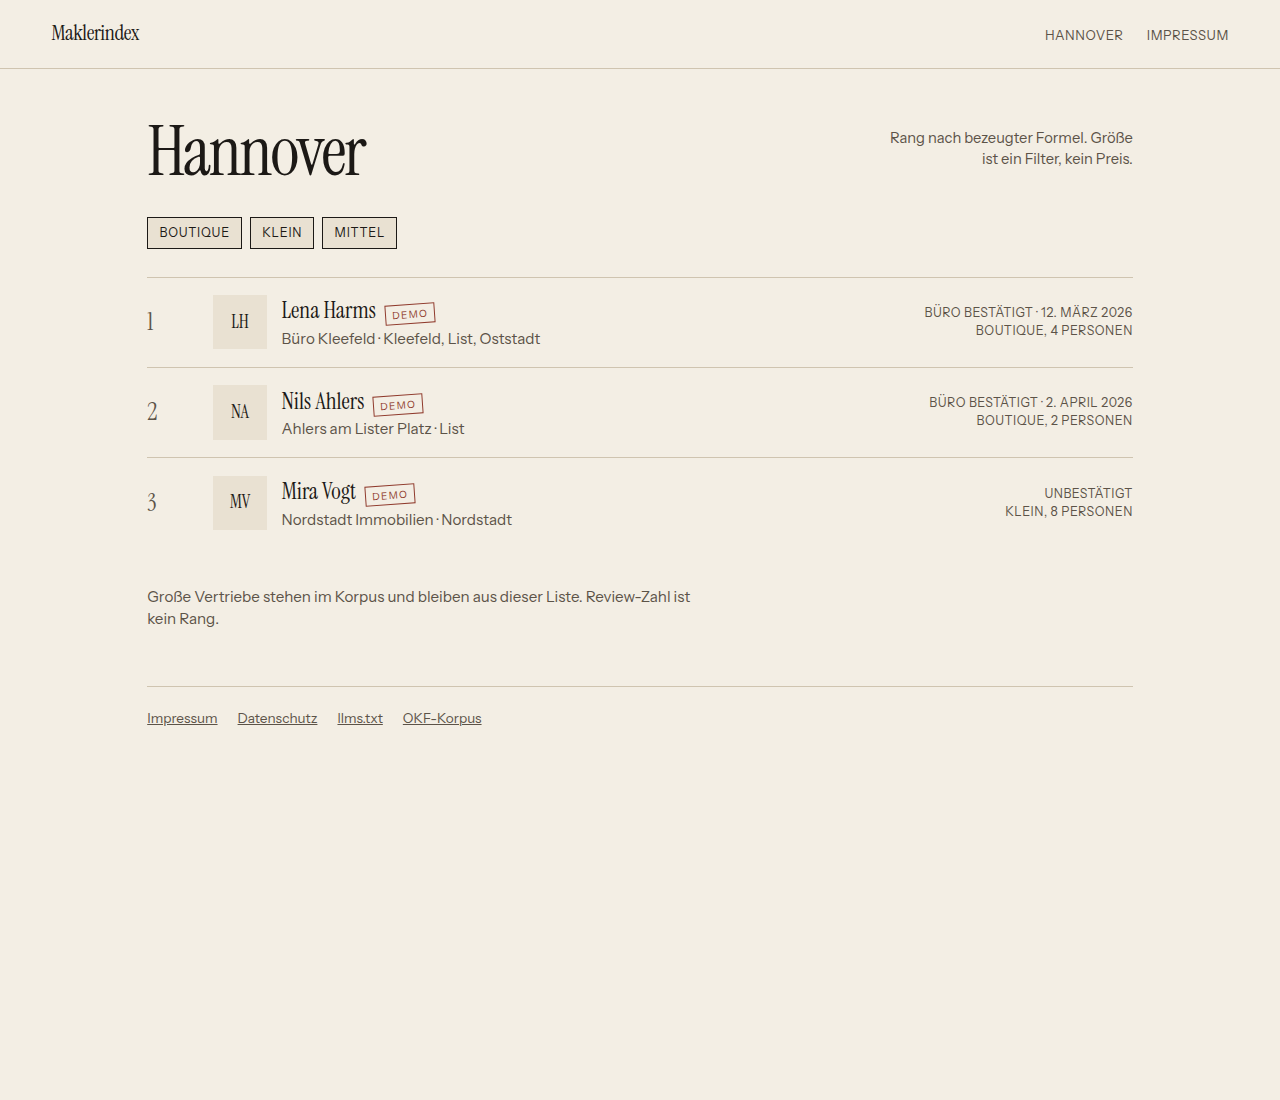
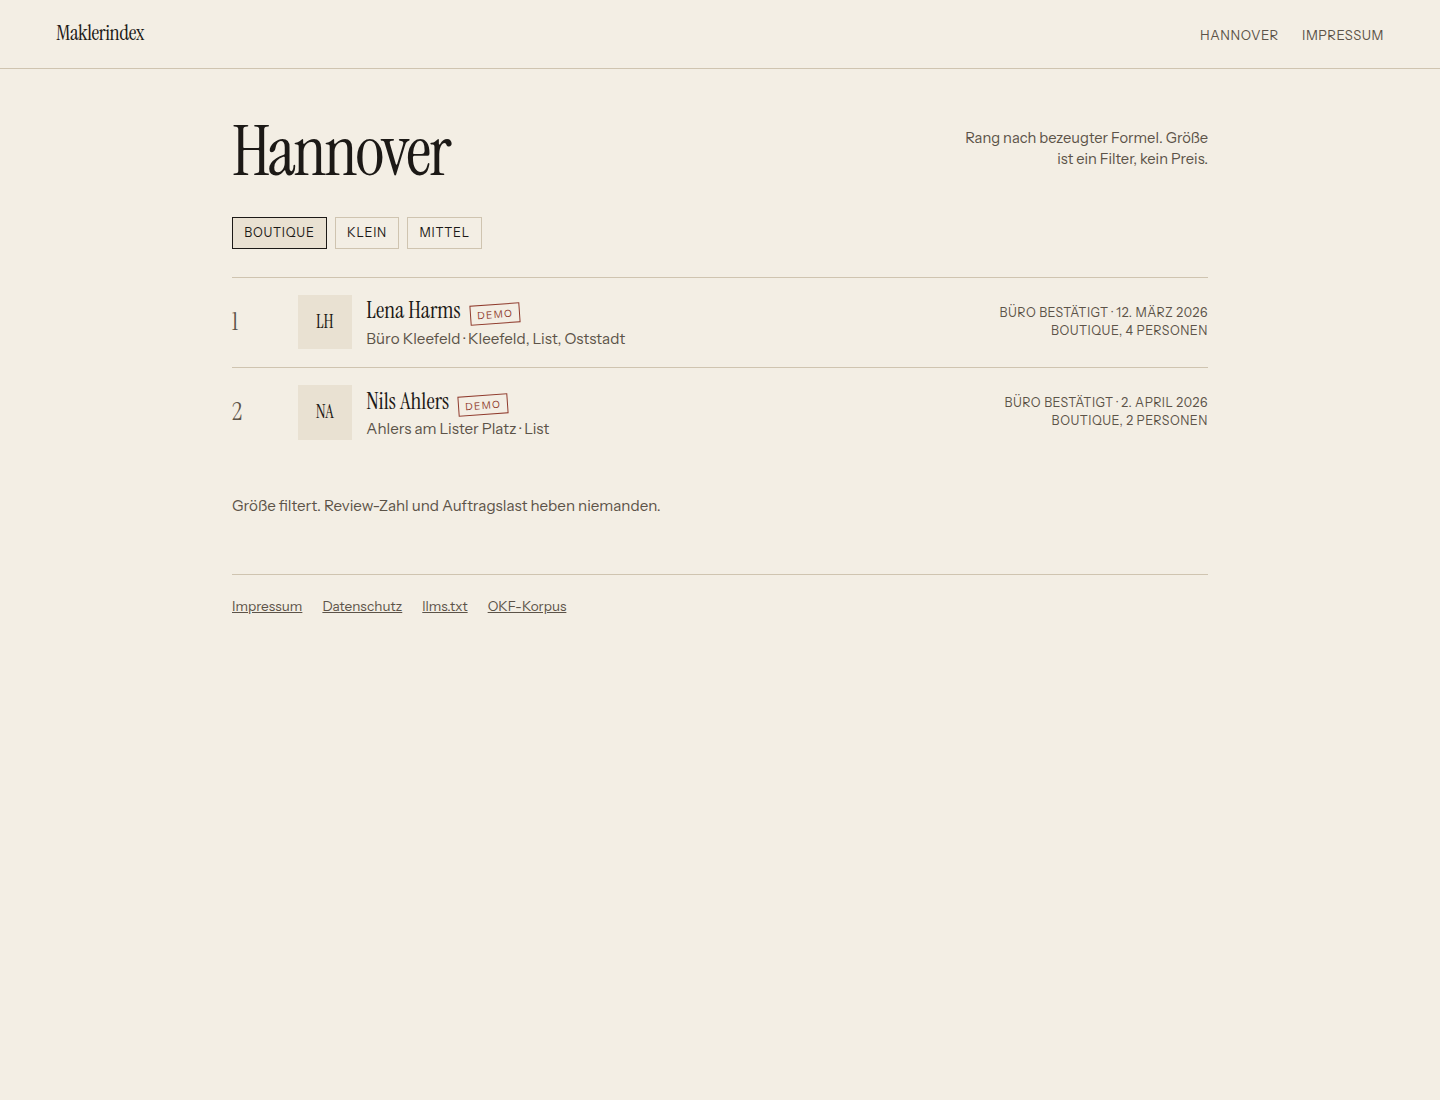
fix(site): honor hidden on ranked rows under boutique filter
.row { display: grid } was beating the hidden attribute, so Klein
offices stayed visible. Hide those rows in CSS and keep screenshots of
the owner routes.

diff --git a/src/ranking.test.ts b/src/ranking.test.ts
@@ -176,6 +176,7 @@ test("generate writes the three owner routes, DEMO, weights, and llms.txt", asyn
   assert.match(city, /<button type="button" data-filter="small">/);
   assert.match(city, /<button type="button" data-filter="mid">/);
   assert.match(city, /apply\(\);/);
+  assert.match(city, /\.row\[hidden\] \{ display: none; \}/);
   assert.match(city, /Größe filtert\. Review-Zahl und Auftragslast heben niemanden/);
   assert.doesNotMatch(city, /Hanseat Residenz/);
   assert.match(profile, /Büro bestätigt/);

diff --git a/src/site.ts b/src/site.ts
@@ -168,6 +168,7 @@ h1.city, h2.city {
   border-top: 1px solid var(--rule);
   text-decoration: none;
 }
+.row[hidden] { display: none; }
 .rank {
   font-family: "Instrument Serif", serif;
   font-size: 1.55rem;
